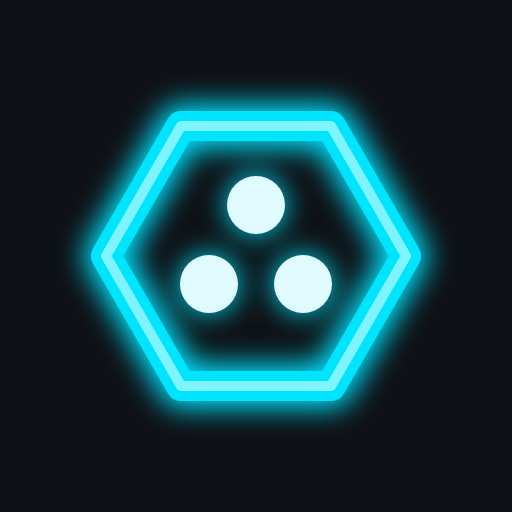
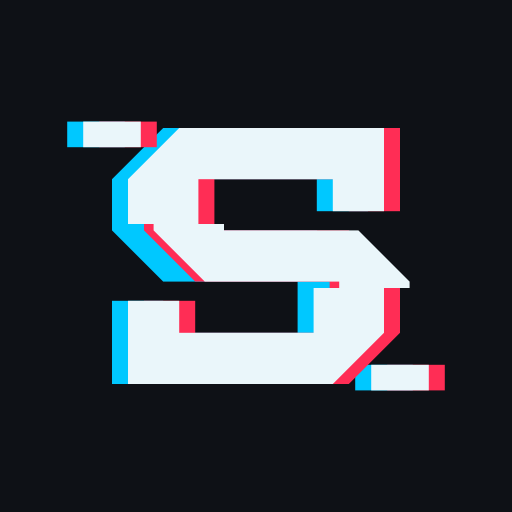
feat(web): новый знак — буква S в глитч-обработке семьи decimus/meridius
Фавикон, бренд-блок рейки и иконки телефона (192/512, apple-touch).
PNG до этого оставались старыми янтарными — перерисованы тем же генератором.
Решение владельца 14.10.2026: «давай мы точно берем S».

diff --git a/miniapp/gen-web-icons.swift b/miniapp/gen-web-icons.swift
@@ -1,19 +1,34 @@
-// Генератор PNG-иконок «Рой/соты» для PWA/iOS (apple-touch-icon + manifest).
-// Full-bleed янтарный квадрат + белая сота с роем; глиф в safe-zone (для maskable/iOS-маски).
-// Запуск из miniapp/: swift gen-web-icons.swift
+// Генератор PNG-иконок для PWA/iOS (apple-touch-icon + manifest) — тот же знак, что src/app/icon.svg:
+// рубленая S в глитч-обработке семьи decimus/meridius (решение владельца 14.10.2026,
+// docs/decisions/2026-10-14-logo-s.md). Full-bleed тёмно-синий квадрат (iOS/Android маскируют сами),
+// знак — в безопасной зоне 80% (для maskable). Запуск из miniapp/: swift gen-web-icons.swift
 import AppKit
 
-let amber = NSColor(srgbRed: 0xD9 / 255.0, green: 0x8A / 255.0, blue: 0x2B / 255.0, alpha: 1)
+func rgb(_ hex: UInt32) -> NSColor {
+    NSColor(srgbRed: CGFloat((hex >> 16) & 0xFF) / 255, green: CGFloat((hex >> 8) & 0xFF) / 255,
+            blue: CGFloat(hex & 0xFF) / 255, alpha: 1)
+}
 
-func hexPath(_ c: NSPoint, _ r: CGFloat) -> NSBezierPath {
-    let h = r * 0.8660254
-    let pts = [
-        NSPoint(x: c.x + r, y: c.y), NSPoint(x: c.x + r / 2, y: c.y + h),
-        NSPoint(x: c.x - r / 2, y: c.y + h), NSPoint(x: c.x - r, y: c.y),
-        NSPoint(x: c.x - r / 2, y: c.y - h), NSPoint(x: c.x + r / 2, y: c.y - h),
-    ]
+let bg = rgb(0x0E1116), ink = rgb(0xEAF6FA), cyan = rgb(0x00C8FF), red = rgb(0xFF2D55)
+
+// Контуры в сетке 64×64 (ось y вниз, как в SVG) — копия путей из src/app/icon.svg.
+let glyph: [[CGPoint]] = [
+    [(20, 12), (52, 12), (52, 25), (44, 25), (44, 20), (23, 20), (23, 28), (44, 28), (52, 36), (52, 44),
+     (44, 52), (12, 52), (12, 39), (20, 39), (20, 44), (41, 44), (41, 36), (20, 36), (12, 28), (12, 20)],
+    [(5, 11), (14, 11), (14, 15), (5, 15)],
+    [(50, 49), (59, 49), (59, 53), (50, 53)],
+].map { $0.map { CGPoint(x: $0.0, y: $0.1) } }
+
+// Полосы глитча: верх и низ на месте, средняя (y 27…37) сдвинута на 4.
+let bands: [(y0: CGFloat, y1: CGFloat, dx: CGFloat)] = [(0, 27, 0), (27, 37, 4), (37, 64, 0)]
+
+func glyphPath(dx: CGFloat) -> NSBezierPath {
     let p = NSBezierPath()
-    p.move(to: pts[0]); for i in 1 ..< 6 { p.line(to: pts[i]) }; p.close()
+    for poly in glyph {
+        p.move(to: NSPoint(x: poly[0].x + dx, y: poly[0].y))
+        for pt in poly.dropFirst() { p.line(to: NSPoint(x: pt.x + dx, y: pt.y)) }
+        p.close()
+    }
     return p
 }
 
@@ -24,14 +39,22 @@ func render(_ px: Int) -> Data {
         colorSpaceName: .deviceRGB, bytesPerRow: 0, bitsPerPixel: 0)!
     NSGraphicsContext.saveGraphicsState()
     NSGraphicsContext.current = NSGraphicsContext(bitmapImageRep: rep)
-    amber.setFill()
-    NSRect(x: 0, y: 0, width: s, height: s).fill() // full-bleed (iOS/Android маскируют сами)
-    let c = NSPoint(x: s / 2, y: s / 2)
-    NSColor.white.setStroke(); NSColor.white.setFill()
-    let hex = hexPath(c, s * 0.28); hex.lineWidth = s * 0.058; hex.lineJoinStyle = .round; hex.stroke()
-    let dr = s * 0.05
-    for o in [NSPoint(x: 0, y: s * 0.095), NSPoint(x: -s * 0.08, y: -s * 0.05), NSPoint(x: s * 0.08, y: -s * 0.05)] {
-        NSBezierPath(ovalIn: NSRect(x: c.x + o.x - dr, y: c.y + o.y - dr, width: dr * 2, height: dr * 2)).fill()
+    bg.setFill()
+    NSRect(x: 0, y: 0, width: s, height: s).fill()
+    // Сетка 64 → безопасная зона 80% по центру, ось y переворачиваем под SVG.
+    let k = s * 0.8 / 64
+    let t = NSAffineTransform()
+    t.translateX(by: s * 0.1, yBy: s * 0.9)
+    t.scaleX(by: k, yBy: -k)
+    t.concat()
+    cyan.setFill(); glyphPath(dx: -2.5).fill()
+    red.setFill(); glyphPath(dx: 2.5).fill()
+    ink.setFill()
+    for b in bands {
+        NSGraphicsContext.saveGraphicsState()
+        NSBezierPath(rect: NSRect(x: -10, y: b.y0, width: 84, height: b.y1 - b.y0)).addClip()
+        glyphPath(dx: b.dx).fill()
+        NSGraphicsContext.restoreGraphicsState()
     }
     NSGraphicsContext.restoreGraphicsState()
     return rep.representation(using: .png, properties: [:])!

diff --git a/miniapp/src/components/roy/RoyRail.tsx b/miniapp/src/components/roy/RoyRail.tsx
@@ -121,7 +121,7 @@ export function RoyRail({
       className="roy-rail flex w-[216px] shrink-0 flex-col border-r border-line bg-surface-2 max-[1099px]:w-[56px]"
     >
       <div className="flex shrink-0 items-center gap-2.5 border-b border-line px-4 max-[1099px]:justify-center max-[1099px]:px-0" style={{ height: SHELL_BAR_H }}>
-        {/* Бренд-блок: знак — тот же файл, что фавикон (циановый неон), и имя капсом. */}
+        {/* Бренд-блок: знак — тот же файл, что фавикон (глитч-S, decisions/2026-10-14-logo-s.md), и имя капсом. */}
         {/* eslint-disable-next-line @next/next/no-img-element -- статичный SVG из app/icon.svg, оптимизатор не нужен */}
         <img src="/icon.svg" alt="" aria-hidden width={28} height={28} className="size-7 shrink-0" />
         <span className="flex min-w-0 flex-col max-[1099px]:hidden">

diff --git a/docs/MINIAPP_ARCHITECTURE.md b/docs/MINIAPP_ARCHITECTURE.md
@@ -168,7 +168,7 @@ supabase functions deploy swarm-api --no-verify-jwt
 | `src/components/roy/NotificationsBell.tsx` (пинги: тип `task_reminder` рисуется без автора/текста — событие системное) | 🔔 Колокольчик: бейдж непрочитанных + поповер-лента комментариев к своим задачам, клик по строке грузит задачу и открывает `TaskModal`. Смонтирован в ТРЁХ точках (у оболочки нет одной общей шапки): строка заголовка раздела в `RoyApp.tsx` (десктоп вне дома), шапка `RoyDashboard.tsx` (десктоп-дом), мобильная шапка `screens/SearchScreen.tsx`. Данные — **опрос раз в 60 c** и только при видимой вкладке (realtime недоступен: клиент в базу не ходит, RLS deny-all). Поповер на мобайле — `fixed` во всю ширину: привязанный к кнопке уезжал за левый край экрана **Колокольчик — часть ОБОЛОЧКИ и стоит на ВСЕХ экранах** (запрос владельца 2026-08-24): смонтирован в двух общих заголовках — `RoyHeader` (мобильные вкладки Задачи/База/Встречи) и `NavHeader` (все push-экраны: задача, запись, встреча, Ещё, Настройки, Команда, Админ), плюс три собственных места оболочки — шапка дашборда (`RoyDashboard`), строка заголовка раздела (`RoyApp`, десктоп) и мобильная шапка `SearchScreen`. ⚠ В `RoyHeader` колокольчик рисуется **только на мобайле** (`useIsDesktop`): «База» и «Встречи» — общие экраны, а на десктопе над ними уже висит строка заголовка раздела со своим колокольчиком, и без этого условия было бы два. Свои действия экрана идут левее, колокольчик всегда крайний справа — угол не «прыгает» между экранами. Отключается пропом `bell={false}`. Свой опрос раз в 60 c, от `useDashboardData` не зависит — застрявший запрос дашборда его не глушит. |
 | `src/components/ServiceWorkerRegister.tsx` | Регистрация SW (PWA) |
 | `src/app/layout.tsx` | Корневой layout. Тема — **выбор человека, по умолчанию как в системе** (владелец 25.09.2026): переключатель «системная / светлая / тёмная» — пилюля-сегмент в одном ряду с пиктограммами инструментов внизу рейки, без подписи (владелец 02.10.2026) (`ThemeSwitch` в `roy/RoyRail.tsx`, логика `lib/theme.ts`, ключ localStorage `swarm-theme`, событие `swarm-theme-change`; «как в системе» = ключа нет). Пре-гидрационный inline-скрипт читает тот же ключ и вешает/снимает `.dark` на `<html>` (без FOUC, `suppressHydrationWarning`), при «как в системе» переключается вживую за ОС; на мобайле рейки нет — там тема по системе; токены `.dark` в `globals.css`, `dark:`-утилиты в `ui/*`. В Telegram вебвью сам выставляет `prefers-color-scheme` под тему Telegram |
-| `public/manifest.webmanifest`, `public/sw.js`, `src/app/icon.svg` (+ `src/app/apple-icon.png`, `public/icon-192.png`, `public/icon-512.png` — PNG-копии знака с фоном до краёв, маску накладывает ОС) | PWA: манифест, SW, иконка (циановый неон на `#0E1116`). **SW кэширует только статику.** Мимо кэша идёт весь бэкенд — и прямой `/functions/v1/`, и **same-origin прокси `/api/*`** (фронт ходит именно на него: `NEXT_PUBLIC_API_URL=/api`). Пока `/api/*` не был исключён, приватные ответы оседали в Cache Storage, а экран показывал данные «на шаг назад» — сохранил тезисы, видишь прежние (issue #71). Правило закреплено тестом `miniapp/sw.test.ts` (`deno test --allow-read miniapp/sw.test.ts`) — гонять при любой правке `sw.js`. Второй слой: `cache: "no-store"` в `apiFetch` и `Cache-Control: no-store` на ответах `swarm-api` |
+| `public/manifest.webmanifest`, `public/sw.js`, `src/app/icon.svg` (+ `src/app/apple-icon.png`, `public/icon-192.png`, `public/icon-512.png` — PNG-копии знака с фоном до краёв, маску накладывает ОС) | PWA: манифест, SW, иконка (глитч-S на `#0E1116`, [решение 14.10.2026](decisions/2026-10-14-logo-s.md); PNG рисует `gen-web-icons.swift`). **SW кэширует только статику.** Мимо кэша идёт весь бэкенд — и прямой `/functions/v1/`, и **same-origin прокси `/api/*`** (фронт ходит именно на него: `NEXT_PUBLIC_API_URL=/api`). Пока `/api/*` не был исключён, приватные ответы оседали в Cache Storage, а экран показывал данные «на шаг назад» — сохранил тезисы, видишь прежние (issue #71). Правило закреплено тестом `miniapp/sw.test.ts` (`deno test --allow-read miniapp/sw.test.ts`) — гонять при любой правке `sw.js`. Второй слой: `cache: "no-store"` в `apiFetch` и `Cache-Control: no-store` на ответах `swarm-api` |
 
 ### Типографика — единый масштаб (`ROY_TYPE`, `ui.tsx`)
 Раньше каждый экран хардкодил свой `fontSize` у заголовка → при переключении экранов заголовок «прыгал» (находили 16→30px: Задачи 24, Встречи/База 30, Таймлайн 28, Спринт/Граф 22, детали 22, Ревью 16, Админ 20). Канон — `ROY_TYPE` в `ui.tsx`:
@@ -217,7 +217,7 @@ supabase functions deploy swarm-api --no-verify-jwt
 
 **Навигация десктопа — левая рейка (витрина нового вида, ветка `feat/new-ui`, решение владельца 24.09.2026):** `roy/RoyRail.tsx` — папки тремя группами через тонкую линию (решение владельца 03.10.2026): Главная · Встречи · Задачи · Проекты · Спринты | подгруппа Анализ рынка · Полезности · Статистика | Команда · База, внизу переключатель темы, под ним строка пиктограмм того же квадрата 28px — Настройки (ползунки) · Админ (только `is_admin`) · Фидбек (`FootTools`; подписи в `title`/`aria-label`, просьба владельца 01.10.2026; в узкой рейке — столбцом во всю ширину) — и строка профиля. Разделы — табы (`search`/`task`/`projects`/`sprints`/`cal`/`book`; `sprints` — десктопный таб, добавлен в `RoyTab` и `ROY_TABS_ALL`); Команда/Настройки/Админ — push-экраны, рейка кладёт их единственными в стек. Задачи/Проекты/Спринты — один `TasksScreen` с пропом `only` (вид без чипов-переключателя; «Таймлайн» скрыт, код оставлен — решение владельца 24.09.2026). Над разделом (таб ≠ `search`) — строка «заголовок раздела + колокольчик» вместо прежней «← Главная»; дашборд держит свою шапку. Поповер `ProfileMenu` на десктопе больше не монтируется. Фон светлой темы — белый (`--background: #FFFFFF`), галактика (`GalaxyBackground`) не подключена. Мобайл — нижний `RoyTabBar` (без изменений).
 
-**Визуальный язык витрины — по стенду (решение владельца 24.09.2026: «про цвета и дизайн систему … потихоньку начать все это перестраивать»):** палитра и радиус живут ТОЛЬКО в токенах `src/app/globals.css` (`:root` и `.dark`) — значения взяты из `docs/redesign/stand/app.css` (ветка `feat/stand-visual`): графитовый текст `#1B2028`, синий акцент `#1F4E9C` (тёмная тема — ночной неон, см. ниже), линии `#ECEFF3`, «сделано» `#1E8E5E`, красный `#C53030`, `--radius: 0.5rem`. Одно отступление — `--ink-mute` светлее, чем ink-3 стенда (иначе он сливается с `--ink-soft`). Шрифты: Golos Text — интерфейс, IBM Plex Mono — цифры и метки (`layout.tsx`). Цвет в компоненте мимо токенов не пишем: перекраска одним файлом держится только на этом. Шаг В2 начат: шапка таблицы задач и подписи групп капсом с разрядкой на серой полосе («СЕГОДНЯ · 1»), строка 34px; в строке задачи — точка статуса (кружок-галочка проявляется при наведении и фокусе, закрытие остаётся в один клик); рейка — бренд-блок (знак = фавикон `/icon.svg`, циановый неон, + «SWARM BRAIN») и счётчики серой цифрой. Шаг В3 (панель таблицы задач): кнопки по .btn стенда (30px, рамка `line-2`, выбранная — акцентная рамка), линзы — сегмент с залитой ячейкой, период — вариант `RangePicker variant="toolbar"` (мобильный `chip` не тронут), быстрые действия в строке — без рамок (правило на контейнере строки; пикеры карточки задачи прежние, их окна — порталом). Полоса спринта (`sprints/SprintBar.tsx`) — тот же сегмент и кнопки 30px. **Общие примитивы `components/ui/` приведены к стенду** — правка в них переводит все экраны сразу: `Button` (пилюля `rounded-full` с 01.10.2026, `default` 30px; `outline` = `.btn`, `default` = `.btn.pri`), `Input`/`Textarea` (фокус — акцентная рамка + кольцо `accent-soft`, фон прозрачный), `Dialog` (радиус 14px, тень и затемнение стенда, подвал `surface-2`). Карточка задачи (`TaskModal.tsx`) — поля по `.fld` (радиус 8, рамка `line-2`), шапка 16px, кнопки подвала 30px; тач-цели 40×40 у «удалить/закрыть» сохранены. Общие `roy/ui` тоже по стенду: `RoyCard` (радиус 10, лёгкая тень, без размытия), `Segmented` = `.seg` (одна рамка, выбранная ячейка залита акцентом; 40px на телефоне, 30px с `lg`), тени кнопки «+» и `LensToggle` — без янтаря; «Встречи» — кнопки действий 30px. **Шкала радиусов стенда** проведена по всей витрине (кроме раздела «Проекты» — защищённый участок, и логотипа входа): 14px — модалки и диалоги, 10px — карточки, панели, выпадающие меню, 8px — поля и тосты; **все кнопки, чипы-действия, сегменты и панельные контролы — пилюля `rounded-full`** (решение владельца 01.10.2026, [decisions/2026-10-01-buttons-pill-shape.md](decisions/2026-10-01-buttons-pill-shape.md); прежние 8px/7px у кнопок отменены); `Chip` = `.chip` стенда (выбранный — мягкий акцент, 26px на десктопе, 40px на телефоне); тёплые тени заменены нейтральными. Фон-галактика тёмной темы (`GalaxyBackground`) оставлена (владелец 24.09.2026) — теперь это вариант задника по умолчанию, см. «Задник». Дальше — голые `<input>`/`<button>` на остальных экранах витрины (они мимо примитивов), экран за экраном.
+**Визуальный язык витрины — по стенду (решение владельца 24.09.2026: «про цвета и дизайн систему … потихоньку начать все это перестраивать»):** палитра и радиус живут ТОЛЬКО в токенах `src/app/globals.css` (`:root` и `.dark`) — значения взяты из `docs/redesign/stand/app.css` (ветка `feat/stand-visual`): графитовый текст `#1B2028`, синий акцент `#1F4E9C` (тёмная тема — ночной неон, см. ниже), линии `#ECEFF3`, «сделано» `#1E8E5E`, красный `#C53030`, `--radius: 0.5rem`. Одно отступление — `--ink-mute` светлее, чем ink-3 стенда (иначе он сливается с `--ink-soft`). Шрифты: Golos Text — интерфейс, IBM Plex Mono — цифры и метки (`layout.tsx`). Цвет в компоненте мимо токенов не пишем: перекраска одним файлом держится только на этом. Шаг В2 начат: шапка таблицы задач и подписи групп капсом с разрядкой на серой полосе («СЕГОДНЯ · 1»), строка 34px; в строке задачи — точка статуса (кружок-галочка проявляется при наведении и фокусе, закрытие остаётся в один клик); рейка — бренд-блок (знак = фавикон `/icon.svg`, глитч-S, + «SWARM BRAIN») и счётчики серой цифрой. Шаг В3 (панель таблицы задач): кнопки по .btn стенда (30px, рамка `line-2`, выбранная — акцентная рамка), линзы — сегмент с залитой ячейкой, период — вариант `RangePicker variant="toolbar"` (мобильный `chip` не тронут), быстрые действия в строке — без рамок (правило на контейнере строки; пикеры карточки задачи прежние, их окна — порталом). Полоса спринта (`sprints/SprintBar.tsx`) — тот же сегмент и кнопки 30px. **Общие примитивы `components/ui/` приведены к стенду** — правка в них переводит все экраны сразу: `Button` (пилюля `rounded-full` с 01.10.2026, `default` 30px; `outline` = `.btn`, `default` = `.btn.pri`), `Input`/`Textarea` (фокус — акцентная рамка + кольцо `accent-soft`, фон прозрачный), `Dialog` (радиус 14px, тень и затемнение стенда, подвал `surface-2`). Карточка задачи (`TaskModal.tsx`) — поля по `.fld` (радиус 8, рамка `line-2`), шапка 16px, кнопки подвала 30px; тач-цели 40×40 у «удалить/закрыть» сохранены. Общие `roy/ui` тоже по стенду: `RoyCard` (радиус 10, лёгкая тень, без размытия), `Segmented` = `.seg` (одна рамка, выбранная ячейка залита акцентом; 40px на телефоне, 30px с `lg`), тени кнопки «+» и `LensToggle` — без янтаря; «Встречи» — кнопки действий 30px. **Шкала радиусов стенда** проведена по всей витрине (кроме раздела «Проекты» — защищённый участок, и логотипа входа): 14px — модалки и диалоги, 10px — карточки, панели, выпадающие меню, 8px — поля и тосты; **все кнопки, чипы-действия, сегменты и панельные контролы — пилюля `rounded-full`** (решение владельца 01.10.2026, [decisions/2026-10-01-buttons-pill-shape.md](decisions/2026-10-01-buttons-pill-shape.md); прежние 8px/7px у кнопок отменены); `Chip` = `.chip` стенда (выбранный — мягкий акцент, 26px на десктопе, 40px на телефоне); тёплые тени заменены нейтральными. Фон-галактика тёмной темы (`GalaxyBackground`) оставлена (владелец 24.09.2026) — теперь это вариант задника по умолчанию, см. «Задник». Дальше — голые `<input>`/`<button>` на остальных экранах витрины (они мимо примитивов), экран за экраном.
 
 **Тёмная тема = ночной неон (владелец 25.09.2026: «сине-бирюзовый неон… примерно как мульта в ночной раскраске»).** Палитра `.dark` взята из ночной темы multa: canvas `#070A10`, панели `#0D1220`/`#131A2E`, линии `#1E2A45`/`#2A3A5C`, основной цвет — циан `#00E5FF` с тёмной подписью `--primary-foreground: #04121A` (белое на циане не читается, поэтому на заливке `bg-primary` текст — `text-primary-foreground`, а не `text-white`). Свечение живёт только в токенах `--glow-sm`/`--glow-md`: в `.dark` — циановая тень, в `:root` — прозрачная (`0 0 0 transparent`, не `none`, потому что токен входит в составные `box-shadow`). Светятся только «действие и сейчас»: `Button default`, активный пункт рейки, `RoyMark` — через класс `.neon-glow` (ночная тема, не под фокусом, чтобы не затирать кольцо фокуса). Статусные цвета (`--status-*`, полосы таймлайна) не менялись. Фон-галактика (`GalaxyBackground`) перекрашена в ночные тона: сине-чёрная база, циановое ядро, холодная пыль. Раздел «Проекты» (защищённый) правкой компонентов не тронут — перекраска доехала до него только через токены.
 

diff --git a/docs/decisions/2026-10-14-logo-s.md b/docs/decisions/2026-10-14-logo-s.md
@@ -1,0 +1,12 @@
+# Знак Swarm Brain — буква S в глитч-обработке
+
+**Дата:** 14.10.2026
+
+**Решение владельца (дословно):** «мы берем букву С, потому что соты в этом плане смотрятся как член, поэтому давай мы точно берем S».
+
+**Контекст.** Владелец попросил стилизованный знак для вкладки браузера «в духе глитчей, как у decimus и meridius»: соты, буквы или иная стилизация. Сравнивались четыре варианта: соты (три ячейки), буква S, монограмма SB и нынешняя ячейка с роем в новой обработке. Соты отклонены: силуэт трёх ячеек читается двусмысленно.
+
+**Что принято.**
+- Знак — рубленая S на сетке 64×64 в обработке семьи decimus/meridius: циановая (`#00C8FF`) и красная (`#FF2D55`) копии сдвинуты на ±2.5, средняя полоса (y 27…37) сдвинута на 4, засечки-штрихи по углам, скруглённый квадрат с рамкой. Срезанные углы буквы — намёк на грань соты.
+- Фон — тёмно-синий из темы Swarm `#0E1116`, рамка `#2F4262`, буква `#EAF6FA`: свой цвет, чтобы знак не путался с decimus (графит) и meridius (светлый).
+- Где живёт: `miniapp/src/app/icon.svg` (фавикон и бренд-блок рейки); PNG для телефона (`public/icon-192.png`, `public/icon-512.png`, `src/app/apple-icon.png`) рисует `miniapp/gen-web-icons.swift` теми же контурами, фон до краёв, знак в безопасной зоне 80%.
